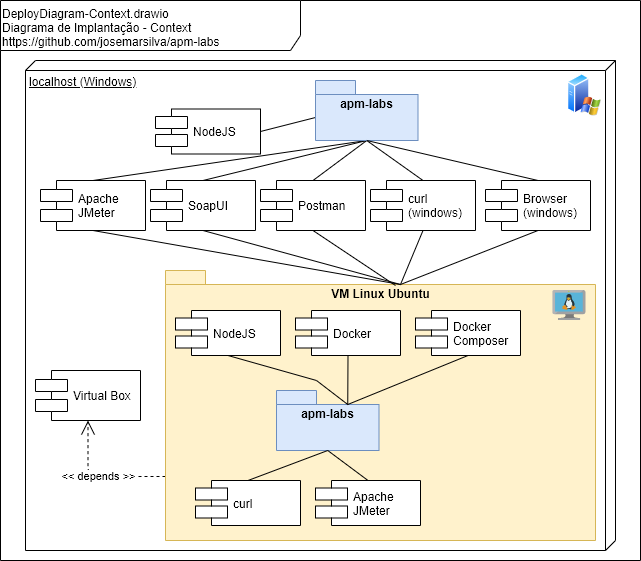
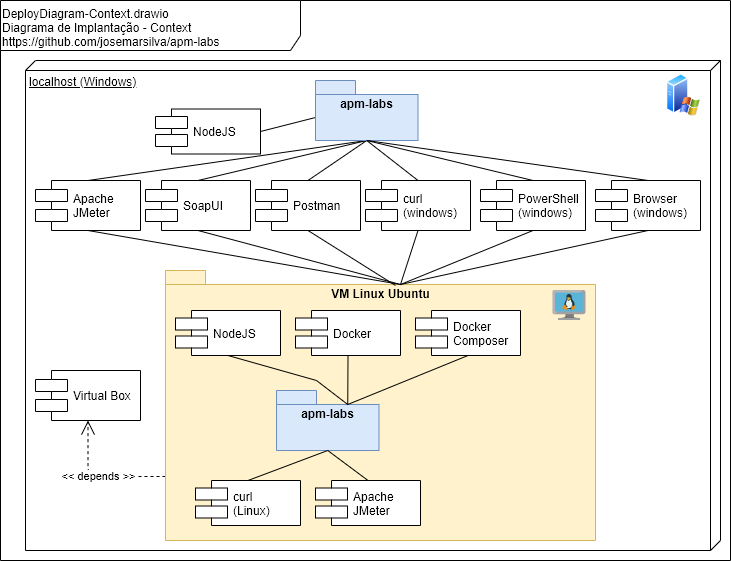
Sanity Test, Load Test, Stress Test, JSON REST API GET POST

diff --git a/src/nodejs-rest-api/app-nodejs-rest-api-get-post.js b/src/nodejs-rest-api/app-nodejs-rest-api-get-post.js
@@ -1,32 +1,40 @@
+// require modules
 const http = require('http');
 const url = require('url');
 
-const data = require('./data')
-// /api/employees
+// require config files
+const data = require('./data-empty')
 
+// listAllEmployees: Return json data with all database
 function listAllEmployees(req,res) {
     res.statusCode = 200;
     res.end(JSON.stringify(data));
 }
 
+// defaultRote: Return error message for correct use
 function defaultRote(req,res) {
     res.statusCode = 400;
-    res.end('Plese select "/api/employees" endpoint');
+    res.end('Plese use GET on "/api/employees" endpoint.');
 }
 
+// addEmployee: Return request for POST add new employee
 function addEmployee(req,res) {
     let body = '';
     req.on('data', chunk => body += chunk.toString());
     req.on('end', () => {
         data.push(JSON.parse(body));
         res.statusCode = 201;
-        return res.end(`${JSON.parse(body).name} added.`);
+        return res.end(`{ "message": "${JSON.parse(body).name} added." }`);
     })
     req.on('error', error => {
         res.statusCode = 400;
         return res.end(error);
     });
 }
+
+// ////////////////////////////////////////////////////////////////////////////
+// main
+// ////////////////////////////////////////////////////////////////////////////
 
 const server = http.createServer((req, res) => {
     const urlParts = url.parse(req.url);
@@ -43,9 +51,14 @@ const server = http.createServer((req, res) => {
                 break;
         }
     } else {
-            // ...
+        console.log("urlParts.pathname:", urlParts.pathname)
+        defaultRote(req, res);
     }
     console.log(urlParts)
 });
 
 server.listen(3000, () => console.info('Server is up on port 3000'));
+
+// ////////////////////////////////////////////////////////////////////////////
+//
+// ////////////////////////////////////////////////////////////////////////////

diff --git a/README-guia-exec-demo-teste-sanity-loadtest-stresstest-json-api-get-post.md b/README-guia-exec-demo-teste-sanity-loadtest-stresstest-json-api-get-post.md
@@ -1,0 +1,132 @@
+## README-guia-exec-demo-teste-sanity-loadtest-stresstest-json-api-get-post.md
+
+[## 3. Projeto](./README.md#3-projeto)
+
+[### 3.4. Guia de Execução, Demonstração e Cenários de Teste](./README.md#34-guia-de-execução-demonstração-e-cenários-de-teste)
+
+#### 3.4.2. Performance Test - Teste de Carga e de Performance com Json API's GET e POST
+
+##### Planejar
+
+* **Objetivo**: O objetivo deste cenário de testes é avaliar se uma <ins>API</ins> construída em <ins>NodeJS</ins> com um cadastro simples consegue suportar uma carga de 100 usuários simultâneos fazendo requisições de GET e POST. Para completar, desejamos saber qual o limite de usuários simultâneos.
+* **Tipo de Testes**: *Teste de Carga (Load Test)* e *Teste de Estresse (Stress Test)*
+* **Ciclos e Cenários**: Executar um único ciclo para cada cenário com cada uma das ferramentas
+
+| Cenário | Detalhamento |
+| :------ | :---         |
+| **01**  | *Teste de Sanidade (Sanity Test)* da aplicação com scripts `Curl(windows)`, acessando REST API, somente GET, somente 100 _requests_ e no _Design Patterns: Synchronous Request / Response_ |
+| **02**  | *Teste de Sanidade (Sanity Test)* da aplicação com scripts `Powershell(windows)`, acessando REST API, com variações: GET/POST, com variações de Quantidades (conforme detalhamento do item) e no _Design Patterns: Synchronous Request / Response_ |
+
+
+* **Quantidades, rampa de subida, tempo e usuários simultâneos**:
+
+| Quantidade _(qty)_       | Rampa _(ramp-up)_ | Tempo _(dur)_ | Usuários _(threads)_ | Obs  |
+| ---:                     | :---:             | :---:         | :---                 | :--- |
+| 1, 100 e 1000 _requests_ | n/a               | n/a           | Cenários com 1, 100 e 1000 _threads_ simultâneas | n/a  |
+
+
+* **Amostra da carga "payload" e "test-data"**:
+  * *Payload* do `POST` request:
+
+```json
+{
+    "name":  "Name 1",
+    "salary":  "1"
+}
+```
+
+
+* **Infraestrutura, arquitetura e sequência**:
+  * Infraestrutura:
+    * Intel Core i5-8250U CPU @ 1.60 GHz 1.80 GHz - RAM 16 GB - Windows 10 Pro
+  * Arquitetura:
+![DeployDiagram-SanityTest-LoadTest-StressTest-NodeJs-JsonAPI-GetPost.png](./doc/DeployDiagram-SanityTest-LoadTest-StressTest-NodeJs-JsonAPI-GetPost.png) 
+  * Sequência:
+
+![SequenceDiagram-Context-SynchronousRequestResponse.png](./doc/SequenceDiagram-Context-SynchronousRequestResponse.png) 
+
+
+* **Monitoramento**: n/a
+
+* **Construção robôs de testes: injetar, rebater e monitorar**:
+  * Os robôs de teste para _injetar_:
+    * *Curl* scripts:
+      * ( `win-cmd-curl-script-sanity-json-api-get.bat` ) construídos e disponíveis em `./src/curl-scripts`
+    * *Powershell* scripts:
+      * ( `powershell-script-sanity-json-api-get-post.ps1` ) construídos e disponíveis em `./src/powershell-scripts`
+    * *JMeter* scripts:
+      * ( `jmeter-script-` ) construídos e disponíveis em `./src/jmeter-scripts`
+  * Os robôs de teste para _rebater_:
+    * ( `app-nodejs-rest-api-get-post.js`) construídos e disponíveis em `./src/nodejs-rest-api`
+  * Os robôs de teste para _monitorar_:
+    * n/a
+
+* **Itens de análise, check-list e relatórios**: Quadro comparativo das características de cada ferramenta, facilidades, dificuldades, etc
+
+##### Executar
+
+###### Cenário-01
+
+* *Iniciar* o(s) _rebatedor_ servidor REST API `app-nodejs-rest-api-get-post.js` disponível(eis) em `src\nodejs-rest-api`
+
+```cmd
+apm-labs> cd src/nodejs-rest-api
+nodejs-webserver> node app-nodejs-rest-api-get-post.js
+```
+
+* *Executar* os *Teste de Sanidade (Sanit Test)* do `Cenário-01`:
+  * Execute o(s) _injetor_ REST GET Request `win-cmd-curl-script-sanity-json-api-get.bat` disponível(eis) em `src\curl-scripts`
+  * Obtenha e encontre a diferença de tempo entre data/hora final e inicial em segundos e divida pela quantidade
+  * Pronto! Você encontrou a *métrica* de *TPS - Transações por Segundos* deste cenário
+
+* *Encerrar* o(s) _rebatedor_ servidor REST API `app-nodejs-rest-api-get-post.js`. Use ^C na tela do Windows Command onde ele está sendo executado
+
+###### Cenário-02
+
+* *Iniciar* o(s) _rebatedor_ servidor REST API `app-nodejs-rest-api-get-post.js` disponível(eis) em `src\nodejs-rest-api`
+
+```cmd
+apm-labs> cd src/nodejs-rest-api
+nodejs-webserver> node app-nodejs-rest-api-get-post.js
+```
+
+* *Executar* um *Teste de Carga (Load Test)* do `Cenário-02`:
+  * Execute o(s) _injetor_ REST GET/POST Request `powershell -file powershell-script-sanity-json-api-get-post.ps1` disponível(eis) em `src\powershell-scripts`
+  * Obtenha e encontre a diferença de tempo entre data/hora final e inicial em segundos e divida pela quantidade
+  * Pronto! Você encontrou a *métrica* de *TPS - Transações por Segundos* deste cenário
+
+* *Executar* um *Teste de Carga (Load Test)* do `Cenário-02.b`:
+  * Execute o(s) _injetor_ REST GET/POST Request `powershell -file powershell-script-sanity-json-api-get-post.ps1 -qty 100` disponível(eis) em `src\powershell-scripts`
+  * Obtenha e encontre a diferença de tempo entre data/hora final e inicial em segundos e divida pela quantidade
+  * Pronto! Você encontrou a *métrica* de *TPS - Transações por Segundos* deste cenário
+
+* *Executar* um *Teste de Carga (Load Test)* do `Cenário-02.c`:
+  * Execute o(s) _injetor_ REST GET/POST Request `powershell -file powershell-script-sanity-json-api-get-post.ps1 -qty 1000` disponível(eis) em `src\powershell-scripts`
+  * Obtenha e encontre a diferença de tempo entre data/hora final e inicial em segundos e divida pela quantidade
+  * Pronto! Você encontrou a *métrica* de *TPS - Transações por Segundos* deste cenário
+
+
+
+##### Checar e Agir
+
+* *Aferir* as métricas anotadas em cada um dos testes de cada um dos testes
+* *Compilar* relatório com as métricas aferidas
+* *Elaborar* relatório
+* *Apresentar* relatório
+
+* Relatório Comparativo de Métricas de Cenários
+
+| Cenário | Métricas     | Observações  |
+| :------ | :---         | :---         |
+| 01 - _Sanity Test_ / `Curl(windows)` / REST API GET / 1 user e 100 _requests_ / `Synchronous Request / Response`|  Elapsed: ? s, TPS: ? | |
+| 02 - _Sanity Test_ / `Powershell(windows)` / REST API GET/POST / 1 user, 1 _requests_ / `Synchronous Request / Response`|  Elapsed: ? s, TPS: ? | |
+| 02.b - _Sanity Test_ / `Powershell(windows)` / REST API GET/POST / 1 user, 100 _requests_ / `Synchronous Request / Response`|  Elapsed: ? s, TPS: ? | |
+| 02.c - _Sanity Test_ / `Powershell(windows)` / REST API GET/POST / 1 user, 1000 _requests_ / `Synchronous Request / Response`|  Elapsed: ? s, TPS: ? | |
+
+
+* Relatório Considerações Finais
+  * Todos os cenários foram executadas na mesma infraestrutura, isto é em um equipamento Intel Core i5-8250U CPU @ 1.60 GHz 1.80 GHz - RAM 16 GB - Windows 10 Pro
+  * As condições gerais de inteferências do equipamento com processos externos foram minimizadas
+  * Foram executadas 1 (um) ciclo(s) de repetição dos cenários, o critério de eleição para métrica do relatório foi a última métrica disponível
+  * Todas as etapas do projeto ocorreram em condições normais, permitindo um planejamento de tempo adequado e um perfeito  entendimento da infraestrutura, arquitetura e fluxo do negócio
+  * É possível concluir que ...

diff --git a/README.md b/README.md
@@ -83,6 +83,7 @@ De uma forma geral, vamos tentar <ins>definir</ins> e <ins>caracterizar</ins> al
 * SOAP UI (apenas para sanidade e comparativo)
 * Postman (apenas para sanidade e comparativo)
 * Curl(Window e Linux - apenas para sanidade e comparativo)
+* Powershell(Windows) (apenas para sanidade e comparativo)
 * VirtualBox (ou ambiente linux disponível)
 
 
